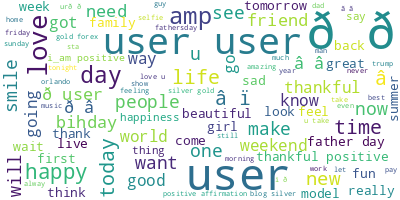
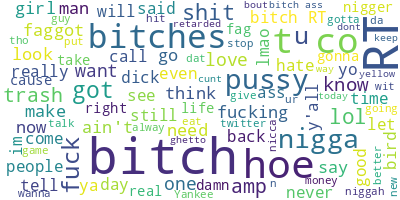
Updated wordcloud function

diff --git a/model/v2/model.py b/model/v2/model.py
@@ -65,7 +65,7 @@ input = [clean(text)]
 output = model.predict(vectorizer.transform(input))
 print([text],":", input, ":", output)
 
-_wordcloud = WordCloud(max_font_size=50, max_words=100, background_color="white").generate(' '.join(tweet for tweet in data['tweet']))
+_wordcloud = WordCloud(max_font_size=50, max_words=100, background_color="white").generate(' '.join(tweet for tweet in data2['tweet']))
 _wordcloud.to_file("wordcloud.png")
 
 pickle.dump(model, open('model-v2.pkl', 'wb'))

diff --git a/model/v3/visualization.py b/model/v3/visualization.py
@@ -1,4 +1,4 @@
-from wordcloud import WordCloud, STOPWORDS , ImageColorGenerator
+from wordcloud import WordCloud
 from data import preprocess_data
 
 
